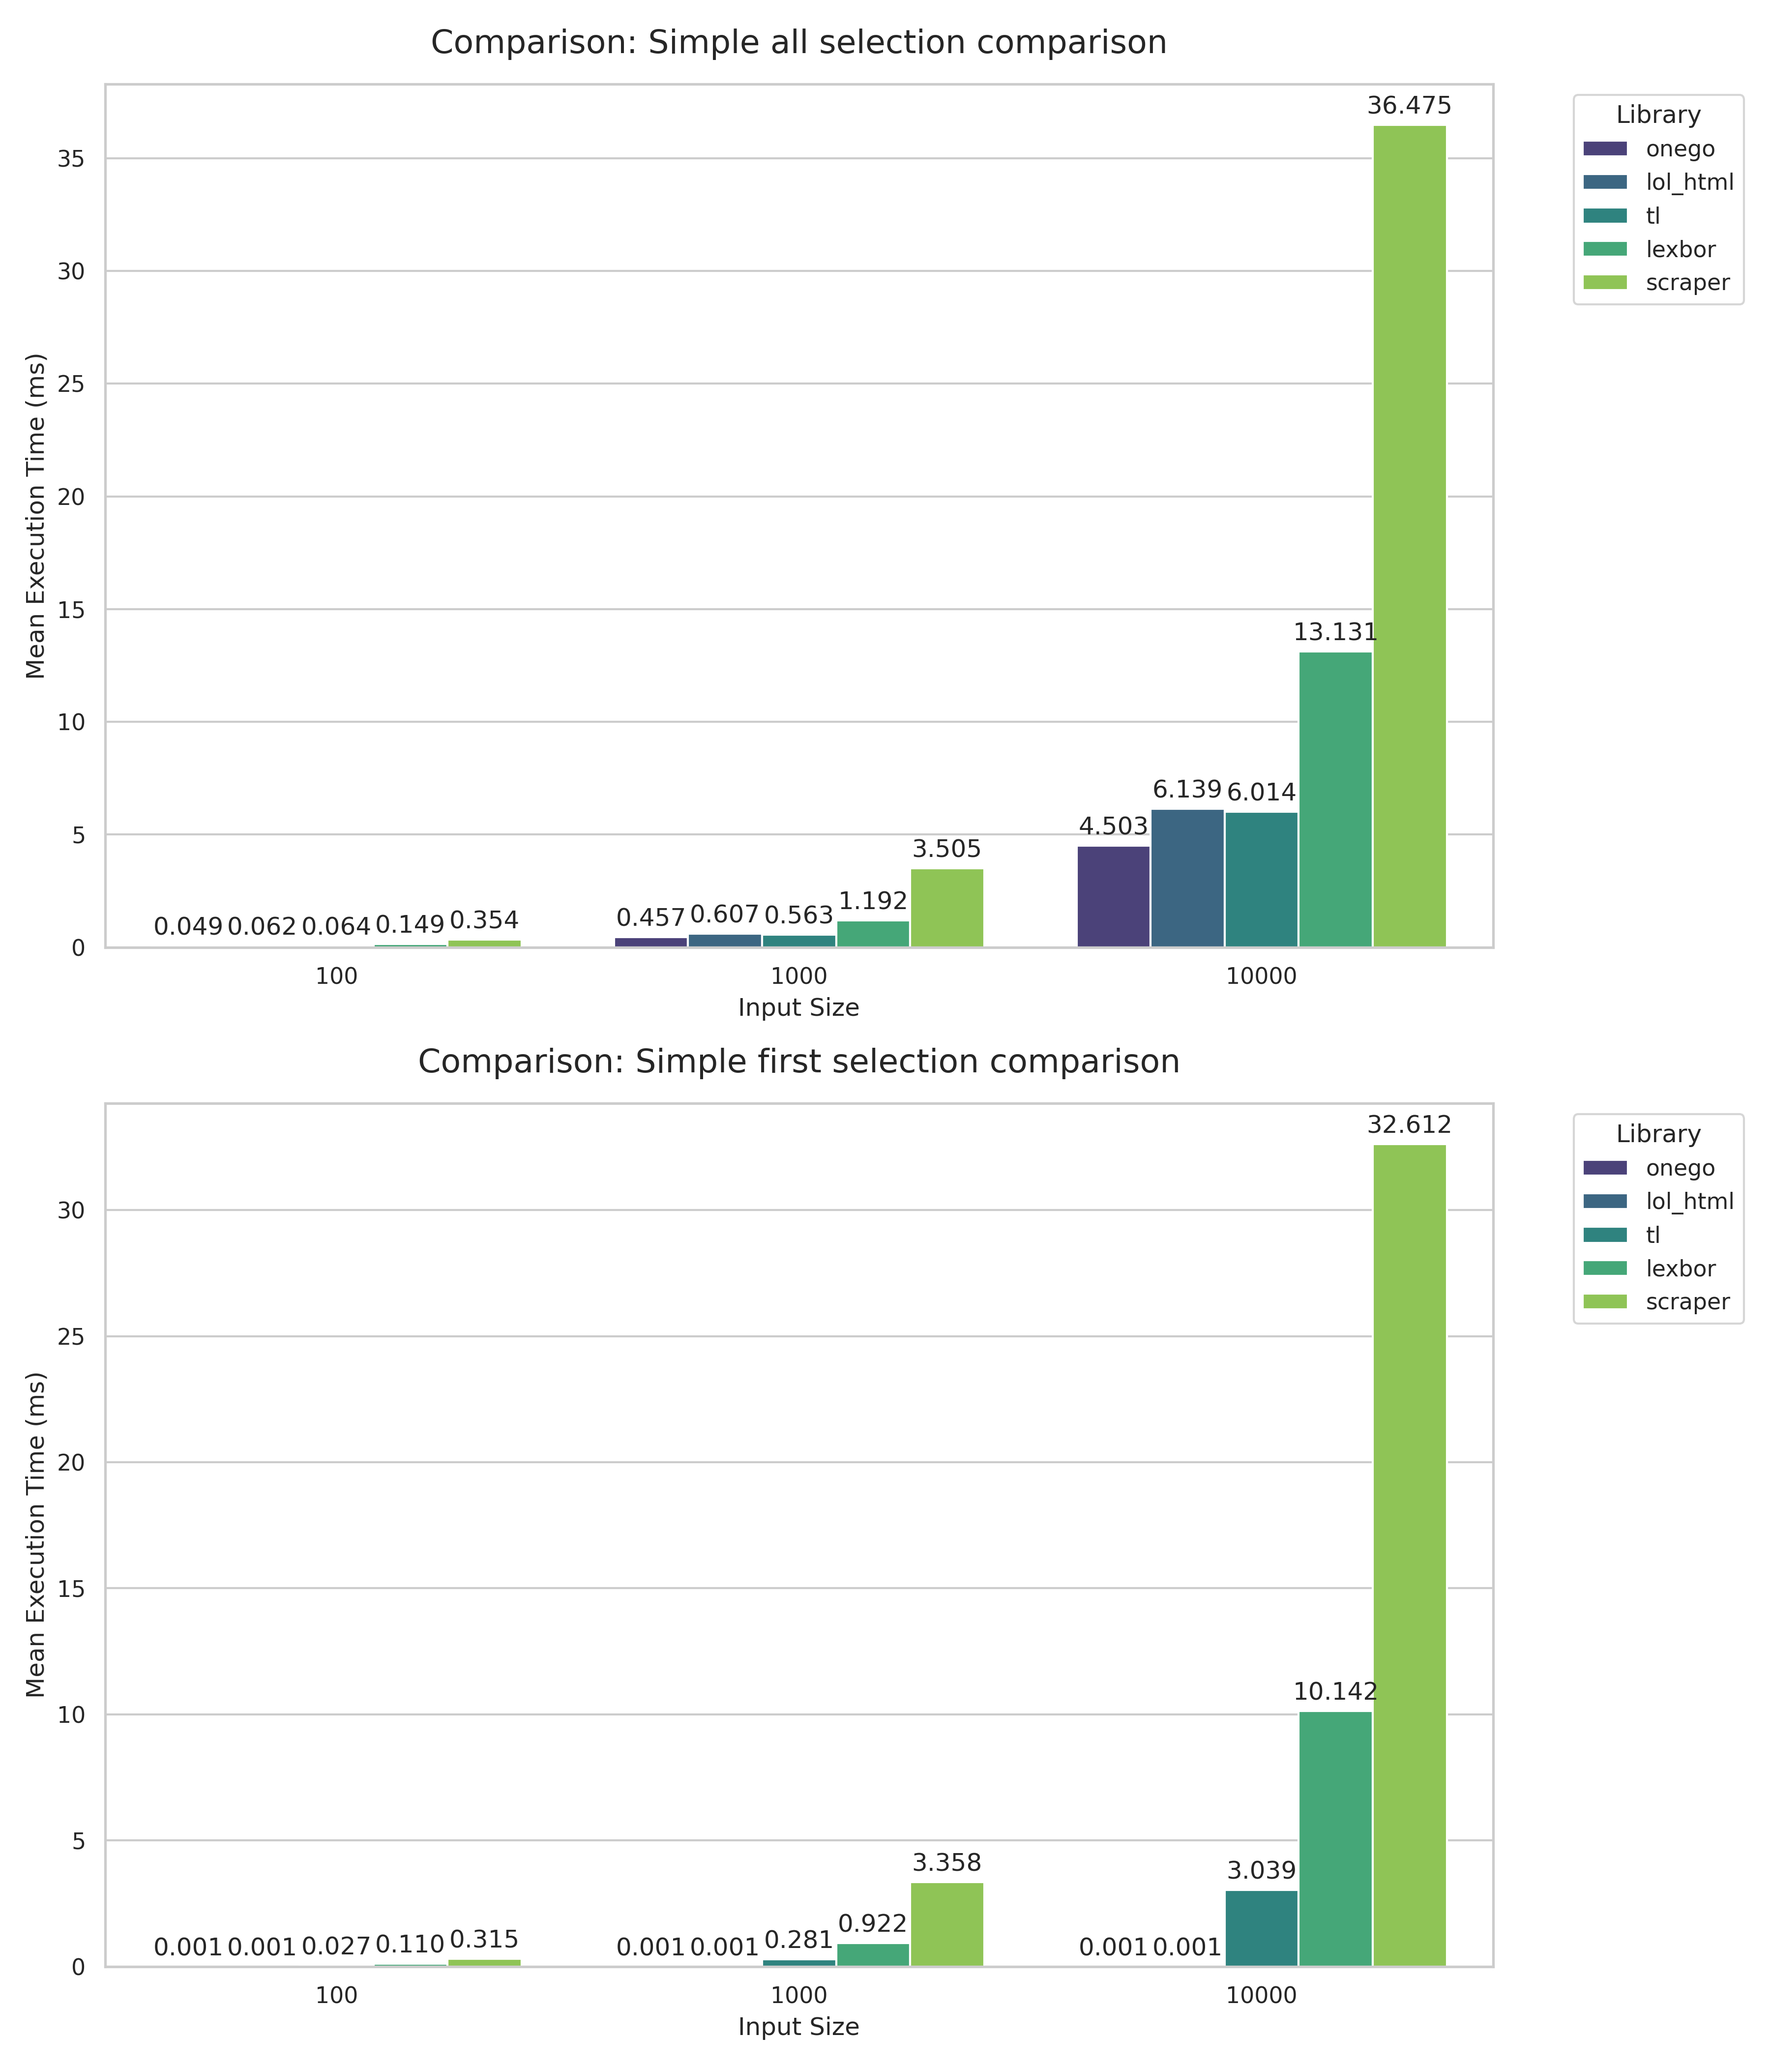
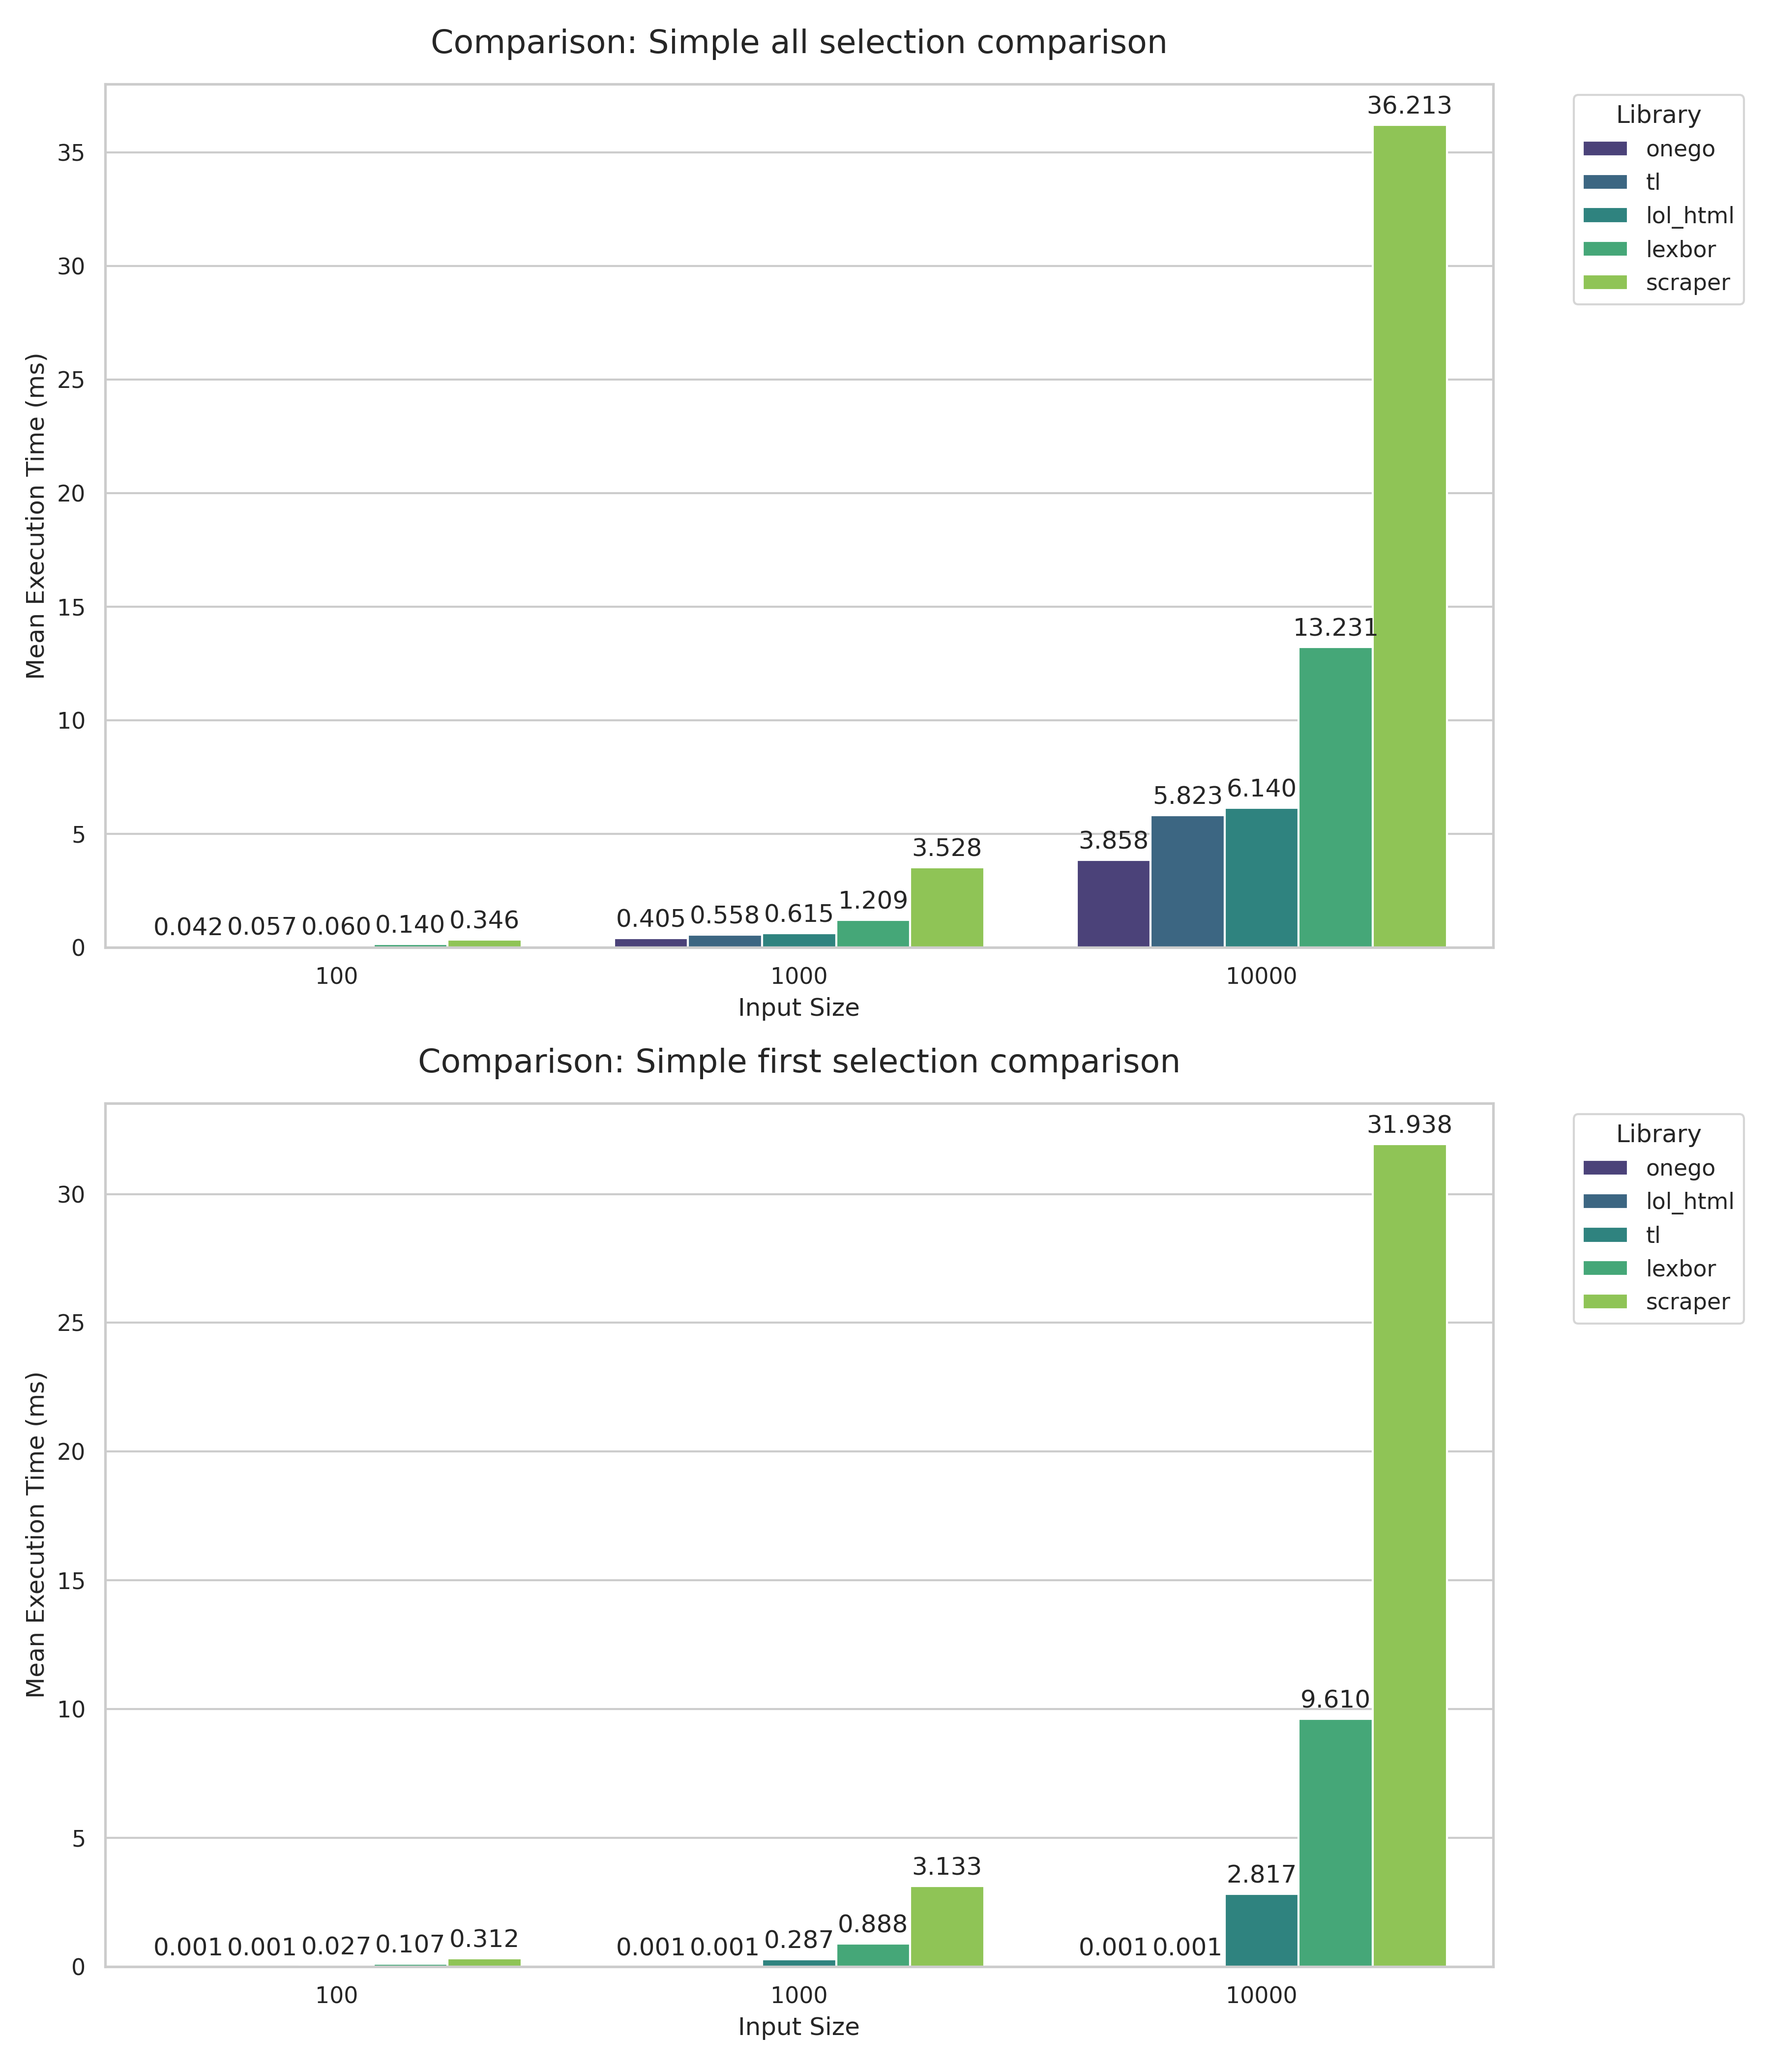
Performance Figures for Benchmark

diff --git a/benches/README.md b/benches/README.md
@@ -7,31 +7,31 @@
 
 | Library | Min (ms) | StdDev (ms) |
 | :--- | :--- | :--- |
-| onego | **0.049088** | 0.000399 |
-| lol_html | **0.062062** | 0.000441 |
-| tl | **0.063642** | 0.000518 |
-| lexbor | **0.149248** | 0.006001 |
-| scraper | **0.353872** | 0.002315 |
+| onego | **0.042184** | 0.000206 |
+| tl | **0.056916** | 0.000412 |
+| lol_html | **0.059896** | 0.000431 |
+| lexbor | **0.140394** | 0.002813 |
+| scraper | **0.345760** | 0.001221 |
 
 ### Input Size: 1000 Elements
 
 | Library | Min (ms) | StdDev (ms) |
 | :--- | :--- | :--- |
-| onego | **0.457360** | 0.004153 |
-| tl | **0.562708** | 0.003755 |
-| lol_html | **0.606717** | 0.003384 |
-| lexbor | **1.191571** | 0.007378 |
-| scraper | **3.504726** | 0.012261 |
+| onego | **0.404985** | 0.005679 |
+| tl | **0.557617** | 0.008518 |
+| lol_html | **0.614523** | 0.000903 |
+| lexbor | **1.208808** | 0.004541 |
+| scraper | **3.528352** | 0.011533 |
 
 ### Input Size: 10000 Elements
 
 | Library | Min (ms) | StdDev (ms) |
 | :--- | :--- | :--- |
-| onego | **4.502841** | 0.034677 |
-| tl | **6.013767** | 0.025309 |
-| lol_html | **6.139372** | 0.020678 |
-| lexbor | **13.131345** | 0.044728 |
-| scraper | **36.474671** | 0.087426 |
+| onego | **3.857509** | 0.024504 |
+| tl | **5.823485** | 0.006550 |
+| lol_html | **6.140056** | 0.009504 |
+| lexbor | **13.231017** | 0.048440 |
+| scraper | **36.212745** | 0.063966 |
 
 ---
 
@@ -41,31 +41,31 @@
 
 | Library | Min (ms) | StdDev (ms) |
 | :--- | :--- | :--- |
-| onego | **0.000776** | 0.000008 |
-| lol_html | **0.001344** | 0.000013 |
-| tl | **0.027132** | 0.000080 |
-| lexbor | **0.109545** | 0.000762 |
-| scraper | **0.314743** | 0.001010 |
+| onego | **0.000780** | 0.000002 |
+| lol_html | **0.001372** | 0.000005 |
+| tl | **0.027106** | 0.000100 |
+| lexbor | **0.107064** | 0.000736 |
+| scraper | **0.311573** | 0.001131 |
 
 ### Input Size: 1000 Elements
 
 | Library | Min (ms) | StdDev (ms) |
 | :--- | :--- | :--- |
-| onego | **0.000754** | 0.000005 |
-| lol_html | **0.001470** | 0.000031 |
-| tl | **0.280862** | 0.001290 |
-| lexbor | **0.921844** | 0.007854 |
-| scraper | **3.357639** | 0.043364 |
+| onego | **0.000769** | 0.000005 |
+| lol_html | **0.001371** | 0.000007 |
+| tl | **0.287096** | 0.000609 |
+| lexbor | **0.887518** | 0.003491 |
+| scraper | **3.133357** | 0.008357 |
 
 ### Input Size: 10000 Elements
 
 | Library | Min (ms) | StdDev (ms) |
 | :--- | :--- | :--- |
-| onego | **0.000831** | 0.000033 |
-| lol_html | **0.001421** | 0.000009 |
-| tl | **3.039043** | 0.059616 |
-| lexbor | **10.141690** | 0.220713 |
-| scraper | **32.612211** | 0.143793 |
+| onego | **0.000786** | 0.000003 |
+| lol_html | **0.001336** | 0.000005 |
+| tl | **2.816879** | 0.006791 |
+| lexbor | **9.609559** | 0.081585 |
+| scraper | **31.937846** | 0.123806 |
 
 ---
 
